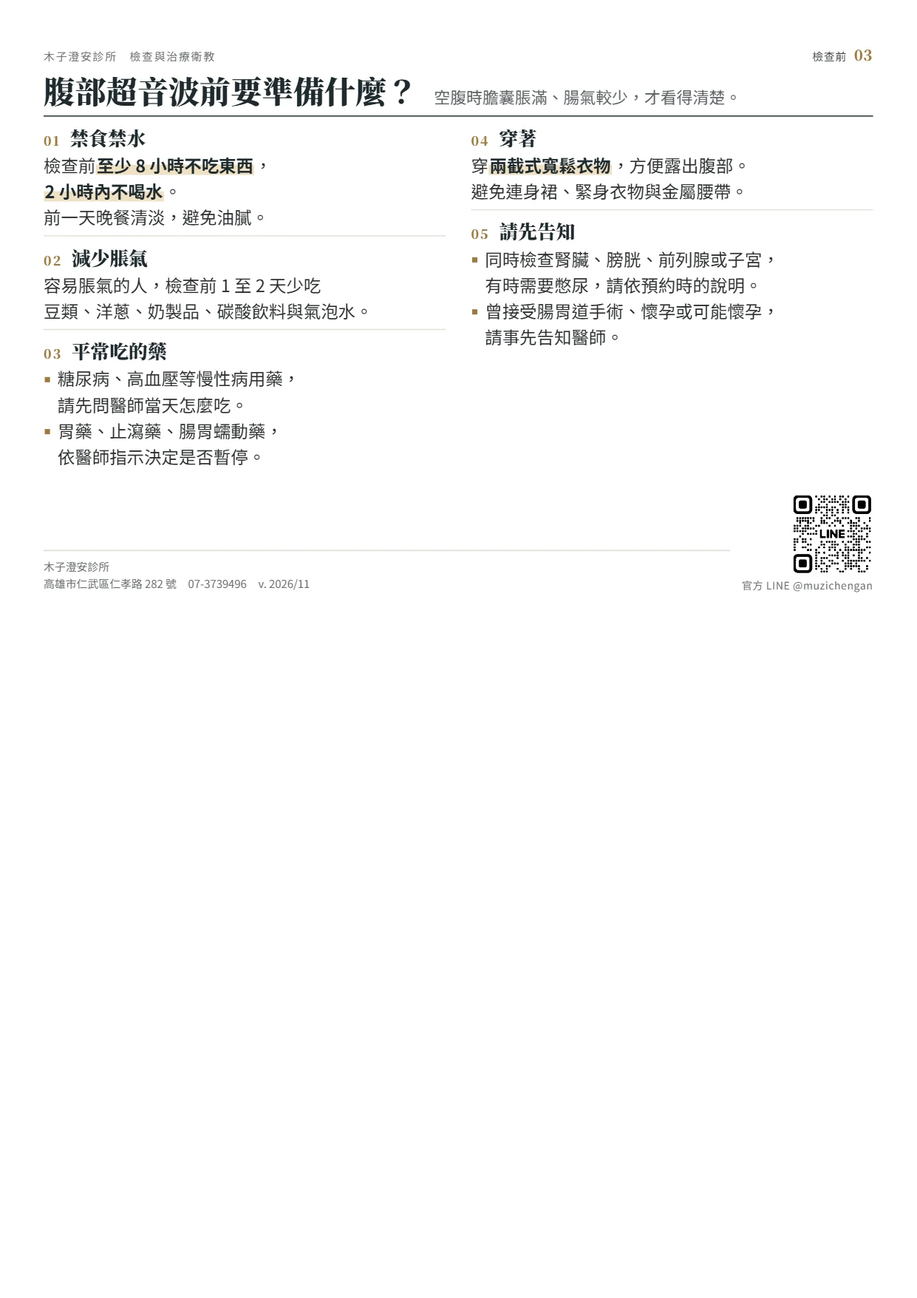
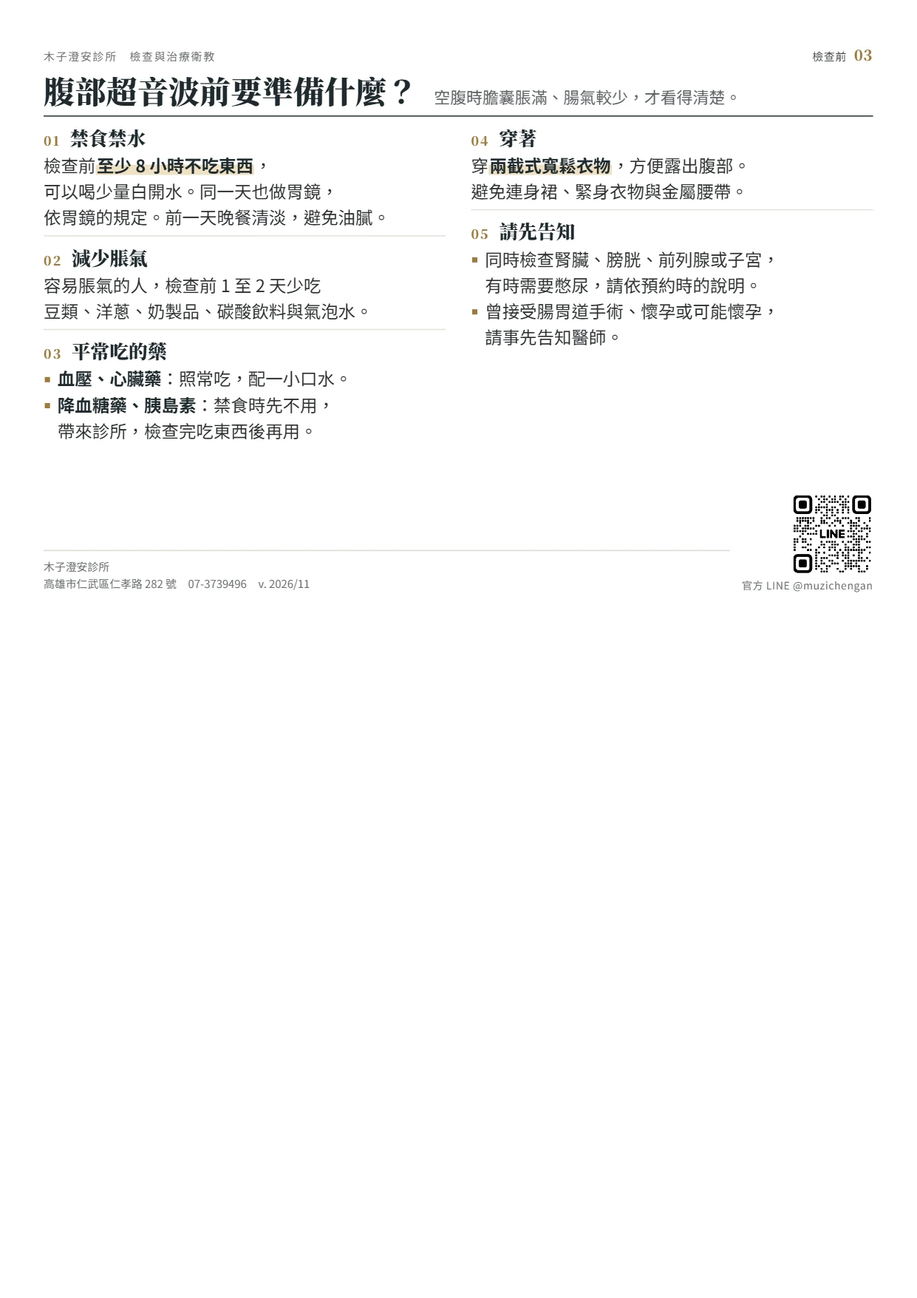
衛教單張內容查核修正，合併腸泌素用藥兩張衛教
- 瘜肉切除術後：追蹤年數改依 USMSTF 2020（1 至 2 顆小腺瘤 7 至 10 年等四級），標出處；「高度化生不良」改為「高度分化不良」
- 用藥注意事項＋針劑注射與保存 → 合併為「腸泌素針劑怎麼打」2 頁，新增提早就醫框；瑞倍適服法移到「減重藥物怎麼選」
- 胃鏡、大腸鏡檢查前：加 SGLT2 抑制劑提早停藥提醒；大腸鏡避免紅色、紫色飲料
- 腹部超音波：可喝少量白開水，慢性病用藥寫法比照胃鏡，刪除暫停胃藥一條
- 抗逆流結紮：約 1 週脫落、2 至 4 週癒合，軟質飲食延長為約兩週
- 幽門桿菌：測試前 2 週停用 PPI 類胃藥
- 回診時程：6 個月改寫「開始用藥約半年」
- 認識肥胖 01：HDL 刪除「或已服藥」，末句改為飲食運動改善、定期檢查追蹤
- 認識肥胖 04：「超過 BMI 24」改為「BMI 24 以上」
- sw.js 快取 v71，hub 改版日期 2026-11-08

Changed region(s): [[0.0612, 0.2769, 0.3674, 0.3692], [0.0306, 0.1231, 0.3981, 0.1846]]

diff --git a/edu-src/cards.html b/edu-src/cards.html
@@ -65,37 +65,65 @@ table.tb td:last-child{white-space:nowrap; font-weight:700; color:var(--ink);}
 /* 診所標誌：取自減重衛教圖卡頁尾，顏色與大小一致 */
 .logo{width:106px; height:36px; overflow:hidden; position:relative;}
 .logo img{position:absolute; width:794px; left:-612px; top:-1056px;}
+.k .sub{display:block; font-size:12.5px; color:var(--faint); line-height:1.6; margin-top:6px;}
+.lad{display:grid; grid-template-columns:62px 1fr; align-items:center; column-gap:8px; margin-bottom:8px;}
+.lad > b{font-weight:700; color:var(--ink); font-size:15px;}
+.steps{display:flex; gap:4px;}
+.steps div{flex:1; background:var(--beige); text-align:center; padding:5px 2px 4px; font-size:11.5px; color:var(--sub); line-height:1.3;}
+.steps i{display:block; font-style:normal; font-family:'Noto Serif TC',serif; font-weight:900; font-size:17px; color:var(--ink);}
+.steps div.mx{background:#E7EEF0;} .steps div.mx i{color:#2E5566;}
+/* 內容較多的一頁：段落上下間距縮小 */
+.page.tight .row{padding:8px 0 7px;}
+.page.tight .box{margin-top:12px;}
 .fit-ok{outline:3px solid #2E8B57;} .fit-bad{outline:3px solid #C0392B;}
 </style>
 </head>
 <body>
 
-<!-- ───────── 減重：用藥 02 用藥注意事項（改成「療程」系列版型，內容不變） ───────── -->
-<section class="page" data-out="edu-medication-guide">
+<!-- ───────── 減重：用藥 02 腸泌素針劑怎麼打（2026/11 由「用藥注意事項」與「針劑注射與保存」合併；瑞倍適服法移到用藥 01） ───────── -->
+<section class="page tight" data-out="edu-glp1-guide-1">
   <div class="top"><span>木子澄安診所　減重門診衛教</span><span class="no">用藥<b>02</b></span></div>
-  <h1>用藥注意事項</h1>
-  <p class="lead">腸胃不適的緩解方法、口服藥怎麼吃、針劑忘記打怎麼辦。</p>
+  <h1>腸泌素針劑怎麼打？</h1>
+  <p class="lead">適用週纖達（Wegovy）與猛健樂（Mounjaro）筆型注射劑。</p>
   <div class="rule"></div>
   <div class="row">
-    <div class="k"><small>01</small><b>腸胃不適，<br>可以這樣緩解</b></div>
-    <div class="v two">
-      <ol class="n"><li>少量多餐、吃慢一點</li><li>有飽足感就停止進食</li><li>避免油炸、辛辣的食物</li></ol>
-      <ol class="n" start="4" style="counter-reset:n 3"><li>飯後不要馬上躺下</li><li>睡前 3 小時不進食</li><li>適度運動，水分喝足</li></ol>
-    </div>
+    <div class="k"><small>01</small><b>保存</b></div>
+    <div class="v"><ul class="d">
+      <li><b class="s">還沒開始用</b>：冷藏 2 至 8°C，<span class="red">不可冷凍</span>，結凍過就不能再用。</li>
+      <li><b class="s">開始用之後</b>：30°C 以下室溫或冷藏都可以，<br>週纖達 <b class="s">6 週</b>、猛健樂 <b class="s">30 天</b>內用完。</li>
+      <li>遠離冰箱出風口；避免高溫與日曬，不要放在車內。</li>
+    </ul></div>
   </div>
   <div class="row">
-    <div class="k"><small>02</small><b>口服藥：<br>瑞倍適</b></div>
-    <div class="v">
-      <ol class="n"><li>早上起床、空腹時服用。</li><li>配不超過 120 mL 的白開水，整顆吞服。</li><li>服藥後至少等 30 分鐘，才能吃東西、喝其他飲料或吃其他藥。</li></ol>
-      <p class="red">不可壓碎、剝半或咀嚼，會影響吸收。</p>
-    </div>
+    <div class="k"><small>02</small><b>注射前</b></div>
+    <div class="v"><ul class="d">
+      <li><b class="s">排氣</b>：週纖達每支新筆第一次使用前做一次流量檢查；<br>猛健樂每次注射前都要排氣。</li>
+      <li>每次換新針頭。<span class="red">筆針不可與他人共用</span>，換了針頭也一樣。</li>
+    </ul></div>
+  </div>
+  <div class="row">
+    <div class="k"><small>03</small><b>注射步驟</b></div>
+    <div class="v"><ol class="n">
+      <li>每週固定一天施打，一天中任何時間、飯前飯後都可以。</li>
+      <li>部位：腹部（肚臍周圍 5 公分以外）、<br>大腿前側或上臂外側，<span class="hl">每次換位置</span>。</li>
+      <li>針頭完全插入皮膚，按住注射鈕。</li>
+      <li>劑量歸零後，針頭<b class="s">留在皮膚內</b>停留 <span class="hl">6 秒以上</span>，再拔出。</li>
+      <li>拔針後針尖有一滴藥液是正常的。</li>
+    </ol></div>
+  </div>
+  <div class="row">
+    <div class="k"><small>04</small><b>注射後</b></div>
+    <div class="v"><ul class="d">
+      <li>打完立即卸下針頭，丟入硬質容器，帶回診所或藥局回收。</li>
+      <li>最後一劑打完，筆內殘留少量藥液是正常的。</li>
+    </ul></div>
   </div>
   <div class="row wide">
-    <div class="k"><small>03</small><b>針劑：忘記打怎麼辦？</b></div>
+    <div class="k"><small>05</small><b>忘記打怎麼辦？</b></div>
     <div class="v two">
       <div>
         <div class="col-h">週纖達</div>
-        <ul class="d"><li>漏打 <b class="s">5 天以內</b>：盡快補打。</li><li>超過 5 天：跳過這次，照原訂日期打。</li><li>連續漏打好幾劑：先問醫師，可能要從較低劑量重新開始。</li></ul>
+        <ul class="d"><li>漏打 <b class="s">5 天以內</b>：盡快補打。</li><li>超過 5 天：跳過這次，照原訂日期打。</li><li>連續漏打 2 週以上：先問醫師。</li></ul>
       </div>
       <div>
         <div class="col-h">猛健樂</div>
@@ -103,12 +131,51 @@ table.tb td:last-child{white-space:nowrap; font-weight:700; color:var(--ink);}
         <div class="week"><div>週一<b>漏打</b></div><div class="go">週二至週五<b>盡快補打</b></div><div class="skip">週六、週日<b>跳過</b></div><div>下週一<b>照常</b></div></div>
       </div>
     </div>
+    <p class="v" style="margin-top:2px"><b class="s">更改施打日</b>：兩劑間隔至少 3 天（72 小時）。<span class="red">任何情況都不可一次打兩倍劑量。</span></p>
   </div>
-  <div class="box">
-    <div class="t">更改施打日</div>
-    <div class="c">兩劑之間間隔足夠就可以：<br>週纖達、猛健樂都要間隔至少 3 天，也就是 72 小時。<br><span class="red">任何情況都不可一次打兩倍劑量。</span></div>
+  <div class="foot"><div class="addr">木子澄安診所<br>高雄市仁武區仁孝路 282 號<span>07-3739496</span><span>v. 2026/11</span></div><div class="logo"><img src="../img/edu-clinical-assessment.webp" alt=""></div></div>
+</section>
+
+<section class="page" data-out="edu-glp1-guide-2">
+  <div class="top"><span>木子澄安診所　減重門診衛教</span><span class="no">用藥<b>02 續</b></span></div>
+  <h1>用藥期間要注意什麼？</h1>
+  <p class="lead">腸胃不適怎麼緩解、懷孕與避孕、劑量怎麼調。</p>
+  <div class="rule"></div>
+  <div class="row">
+    <div class="k"><small>06</small><b>腸胃不適，<br>可以這樣緩解</b></div>
+    <div class="v"><div class="two"><ol class="n">
+      <li>少量多餐，七分飽就停</li>
+      <li>避免油炸、油膩與辛辣的食物</li>
+      <li>吃慢一點，飯後不馬上躺下</li></ol>
+      <ol class="n" style="counter-reset:n 3"><li>睡前 3 小時不進食</li>
+      <li>水分喝足，適度運動</li>
+      <li>避免大量飲酒與極端節食</li>
+    </ol></div>
+    <p style="margin-top:4px">藥物是幫手。持續好的飲食與運動習慣，停藥後才不容易復胖。</p></div>
   </div>
-  <p class="src">資料來源：週纖達、猛健樂、瑞倍適仿單。</p>
+  <div class="row">
+    <div class="k"><small>07</small><b>懷孕與避孕</b></div>
+    <div class="v"><ul class="d">
+      <li>懷孕或哺乳期間<b class="s">不可使用</b>。</li>
+      <li>計畫懷孕：週纖達要<b class="s">停藥至少 2 個月</b>後再懷孕；<br>猛健樂也請提早與醫師討論停藥時間。</li>
+      <li>使用猛健樂又吃口服避孕藥：開始用藥及每次調升劑量後 <b class="s">4 週內</b>，<br>要加用保險套或改用非口服的避孕方式。</li>
+    </ul></div>
+  </div>
+  <div class="row">
+    <div class="k"><small>08</small><b>劑量階梯</b><span class="sub">每 4 週評估一次<br>單位 mg</span></div>
+    <div class="v">
+      <div class="lad"><b>週纖達</b>
+        <div class="steps"><div><i>0.25</i>第 1 至 4 週</div><div><i>0.5</i>5 至 8 週</div><div><i>1</i>9 至 12 週</div><div><i>1.7</i>13 至 16 週</div><div class="mx"><i>2.4</i>17 週起維持</div></div></div>
+      <div class="lad"><b>猛健樂</b>
+        <div class="steps"><div><i>2.5</i>第 1 至 4 週</div><div><i>5</i>5 至 8 週</div><div><i>7.5</i>9 至 12 週</div><div><i>10</i>13 至 16 週</div><div><i>12.5</i>17 至 20 週</div><div class="mx"><i>15</i>21 週起</div></div></div>
+      <p style="margin-top:6px"><span class="hl">從低劑量開始，不一定要升到最高劑量</span>。調整劑量請與醫師討論。</p>
+    </div>
+  </div>
+  <div class="box alert">
+    <div class="t">提早就醫</div>
+    <div class="c">持續噁心嘔吐、吃不下、尿量變少；<br>上腹痛延伸到背部，或右上腹痛；<br>併用胰島素或磺醯尿素類降血糖藥，出現冒冷汗、手抖、心悸。<br><b class="s">不必等到回診日。</b></div>
+  </div>
+  <p class="src">資料來源：週纖達、猛健樂仿單。操作或施打時間有任何疑問，歡迎隨時詢問醫護團隊。</p>
   <div class="foot"><div class="addr">木子澄安診所<br>高雄市仁武區仁孝路 282 號<span>07-3739496</span><span>v. 2026/11</span></div><div class="logo"><img src="../img/edu-clinical-assessment.webp" alt=""></div></div>
 </section>
 

diff --git a/edu-src/a5.html b/edu-src/a5.html
@@ -76,6 +76,7 @@ table.tb td:last-child{font-weight:700; color:var(--ink);}
         <div class="v"><ul class="d">
           <li><b class="s">血壓、心臟藥</b>：當天早上照常吃，<br>配一小口水。</li>
           <li><b class="s">降血糖藥、胰島素</b>：禁食時先不用，<br>帶來診所，檢查完吃東西後再用。</li>
+          <li><b class="s">SGLT2 抑制劑</b>（恩排糖、福適佳等）：<br>要提早停藥，預約時請問醫師。</li>
           <li><b class="s">抗血小板藥、抗凝血劑</b>：事先告知，<br>由醫師評估，<span class="red">不要自行停藥</span>。</li>
           <li><b class="s">腸泌素類藥物</b>（週纖達、猛健樂、瑞倍適）：<br><span class="nw">胃排空</span>會變慢，預約時請告知。</li>
         </ul></div></div>
@@ -113,7 +114,7 @@ table.tb td:last-child{font-weight:700; color:var(--ink);}
       <div class="row"><div class="k"><small>02</small><b>前一天：低渣代餐</b></div>
         <div class="v"><ul class="d">
           <li>早餐 07:00 白吐司或白饅頭，<br>午餐 12:00、晚餐 16:00 吃代餐。</li>
-          <li>可以喝白開水、運動飲料、無渣清湯。</li>
+          <li>可以喝白開水、運動飲料、無渣清湯，<br><span class="red">避免紅色、紫色飲料</span>。</li>
         </ul></div></div>
       <div class="row"><div class="k"><small>03</small><b>清腸藥分兩次喝</b></div>
         <div class="v"><ul class="d">
@@ -125,13 +126,13 @@ table.tb td:last-child{font-weight:700; color:var(--ink);}
       <div class="row"><div class="k"><small>04</small><b>平常吃的藥</b></div>
         <div class="v"><ul class="d">
           <li><b class="s">血壓、心臟藥</b>：照常吃，配一小口水。</li>
-          <li><b class="s">降血糖藥、胰島素</b>：飲食控制期間<br>容易低血糖，請先問醫師怎麼調整。</li>
+          <li><b class="s">降血糖藥、胰島素</b>：飲食控制期間<br>容易低血糖，請先問醫師怎麼調整；<br>SGLT2 抑制劑（恩排糖、福適佳等）要提早停。</li>
           <li><b class="s">抗血小板藥、抗凝血劑、腸泌素類藥物</b>：<br>預約時請告知，<span class="red">不要自行停藥</span>。</li>
         </ul></div></div>
       <div class="row"><div class="k"><small>05</small><b>檢查當天</b></div>
         <div class="v"><ul class="d">
           <li>檢查前 <span class="hl">2 小時禁水</span>。</li>
-          <li>大便是淡黃色清水、沒有渣，<br>就是清乾淨了。</li>
+          <li>大便是淡黃色清水、沒有渣就是清乾淨了。</li>
           <li>舒眠大腸鏡要有家人陪同，<br><span class="hl">當天不可開車、騎車</span>。</li>
         </ul></div></div>
     </div>
@@ -147,13 +148,13 @@ table.tb td:last-child{font-weight:700; color:var(--ink);}
   <div class="cols">
     <div class="col">
       <div class="row"><div class="k"><small>01</small><b>禁食禁水</b></div>
-        <div class="v"><p>檢查前<span class="hl">至少 8 小時不吃東西</span>，<br><span class="hl">2 小時內不喝水</span>。<br>前一天晚餐清淡，避免油膩。</p></div></div>
+        <div class="v"><p>檢查前<span class="hl">至少 8 小時不吃東西</span>，<br>可以喝少量白開水。同一天也做胃鏡，<br>依胃鏡的規定。前一天晚餐清淡，避免油膩。</p></div></div>
       <div class="row"><div class="k"><small>02</small><b>減少脹氣</b></div>
         <div class="v"><p>容易脹氣的人，檢查前 1 至 2 天少吃<br>豆類、洋蔥、奶製品、碳酸飲料與氣泡水。</p></div></div>
       <div class="row"><div class="k"><small>03</small><b>平常吃的藥</b></div>
         <div class="v"><ul class="d">
-          <li>糖尿病、高血壓等慢性病用藥，<br>請先問醫師當天怎麼吃。</li>
-          <li>胃藥、止瀉藥、腸胃蠕動藥，<br>依醫師指示決定是否暫停。</li>
+          <li><b class="s">血壓、心臟藥</b>：照常吃，配一小口水。</li>
+          <li><b class="s">降血糖藥、胰島素</b>：禁食時先不用，<br>帶來診所，檢查完吃東西後再用。</li>
         </ul></div></div>
     </div>
     <div class="col">
@@ -225,11 +226,13 @@ table.tb td:last-child{font-weight:700; color:var(--ink);}
         <div class="v"><p>約 1 至 2 週出爐，下次大腸鏡依結果決定：</p>
           <table class="tb">
             <tr><th>病理結果</th><th>下次大腸鏡</th></tr>
-            <tr><td><b class="s">低風險</b>：1 至 2 顆腺瘤，都小於 1 公分，<br>沒有絨毛狀變化或高度化生不良</td><td>3 至 5 年</td></tr>
-            <tr><td><b class="s">高風險</b>：3 顆以上，或任一顆 1 公分以上，<br>或有絨毛狀變化、高度化生不良</td><td>3 年內</td></tr>
+            <tr><td>1 至 2 顆管狀腺瘤，都小於 1 公分</td><td>7 至 10 年</td></tr>
+            <tr><td>3 至 4 顆管狀腺瘤，都小於 1 公分</td><td>3 至 5 年</td></tr>
+            <tr><td>5 至 10 顆，或任一顆 1 公分以上，<br>或有絨毛狀變化、高度分化不良</td><td>3 年</td></tr>
+            <tr><td>鋸齒狀病灶、分片切除</td><td>醫師另外說明</td></tr>
           </table></div></div>
       <div class="box alert"><div class="t">立即就醫</div><div class="c">解大量鮮血或血塊、頭暈心悸、腹痛加劇、<br><span class="nw">發燒</span>。糞便帶少量血絲一兩次，通常不必擔心。</div></div>
-      <p class="src">以清腸乾淨、完整切除為前提。資料來源：台灣消化系醫學會、國民健康署。</p>
+      <p class="src">以清腸乾淨、完整切除為前提。資料來源：USMSTF，Gastroenterology 2020。</p>
     </div>
   </div>
   <div class="foot"><div class="addr">木子澄安診所<br>高雄市仁武區仁孝路 282 號<span>07-3739496</span><span>v. 2026/11</span></div><div class="qr"><img src="../calc/qr.png" alt=""><span>官方 LINE @muzichengan</span></div></div>
@@ -272,14 +275,14 @@ table.tb td:last-child{font-weight:700; color:var(--ink);}
 <!-- ───────── 治療後 03 抗逆流結紮 ───────── -->
 <section class="page" data-out="edu-a5-arbl-after">
   <div class="top"><span>木子澄安診所　檢查與治療衛教</span><span class="no">治療後<b>03</b></span></div>
-  <div class="head"><h1>抗逆流結紮術後怎麼吃？</h1><p class="lead">結紮處黏膜 1 至 2 週內脫落、癒合。</p></div>
+  <div class="head"><h1>抗逆流結紮術後怎麼吃？</h1><p class="lead">結紮處約 1 週脫落，傷口約 2 至 4 週癒合。</p></div>
   <div class="rule"></div>
   <div class="cols">
     <div class="col">
       <div class="row"><div class="k"><small>01</small><b>飲食</b></div>
         <div class="v"><ul class="d">
           <li>治療當天：溫涼的流質。</li>
-          <li>之後約一週：軟質食物，<br>例如粥、蒸蛋、豆腐、煮軟的麵。</li>
+          <li>之後約兩週：軟質食物，<br>例如粥、蒸蛋、豆腐、煮軟的麵。</li>
           <li>避免堅硬、大塊、過燙或刺激性食物，<br><span class="hl">小口、慢慢吃</span>。</li>
         </ul></div></div>
       <div class="row"><div class="k"><small>02</small><b>用藥</b></div>
@@ -321,7 +324,7 @@ table.tb td:last-child{font-weight:700; color:var(--ink);}
       <div class="row"><div class="k"><small>04</small><b>確認除菌成功</b></div>
         <div class="v"><ul class="d">
           <li>吃完藥<span class="hl">至少 4 週後</span>，<br>回診做碳 13 尿素呼氣測試。</li>
-          <li>測試前 2 週停用制酸藥，以免假陰性。</li>
+          <li>測試前 2 週停用 PPI 類胃藥，以免假陰性。</li>
           <li>沒有成功，醫師會換另一組藥再治療。</li>
         </ul></div></div>
       <div class="box"><div class="t">除菌之後</div><div class="c">已有<span class="nw">胃黏膜萎縮</span>或<span class="nw">腸化生</span>，<br>除菌後仍要定期做胃鏡。<br>同住家人也可以一起檢查。</div></div>

diff --git a/edu-src/patch.html b/edu-src/patch.html
@@ -17,6 +17,13 @@ const INK = '#2f3437', DARK = '#1f2a2e', SUB = '#6b6f71';
 const PATCHES = {
   // 用藥 01：SELECT 研究的對象是已有心血管疾病的人
   'edu-medication-options': [
+    // 瑞倍適「特色」欄：原本只寫不必打針，2026/11 合併針劑衛教時把口服服法從用藥 02 移到這裡
+    {cover:[222, 762, 290, 163], text:[
+      [227, 797, SANS(400, 24.5), INK, '不必打針。起床空腹，'],
+      [227, 837, SANS(400, 24.5), INK, '配 120 mL 內白開水'],
+      [227, 877, SANS(400, 24.5), INK, '整顆吞服，不可壓碎；'],
+      [227, 917, SANS(400, 24.5), INK, '30 分鐘後才吃喝、服藥'],
+    ]},
     {cover:[530, 762, 285, 160], text:[
       [537, 797, SANS(400, 24.5), INK, '已有心血管疾病的人，'],
       [537, 837, SANS(400, 24.5), INK, '大型研究證實可降低'],
@@ -46,7 +53,7 @@ const PATCHES = {
       [113, 1572, SANS(400, 17.5), SUB, '資料來源：各藥品仿單；SELECT，N Engl J Med 2023；SURMOUNT-OSA，N Engl J Med 2024。'],
     ]},
   ],
-  // 療程 04：5% 評估改到「維持劑量用滿約 3 個月」，與療程 01、02 一致（週纖達第 17 週才到維持劑量）
+  // 療程 04：6 個月的評估寫「開始用藥約半年」（週纖達第 17 週才到維持劑量，半年時維持劑量還不到 3 個月）
   'edu-follow-up-schedule': [
     {cover:[380, 795, 748, 140], text:[
       [388, 828, SANS(700, 25), DARK, '抽血與階段檢視'],
@@ -55,7 +62,7 @@ const PATCHES = {
     ]},
     {cover:[380, 995, 748, 140], text:[
       [388, 1028, SANS(700, 25), DARK, '療效評估與腹部超音波'],
-      [388, 1073, SANS(400, 25), INK, '維持劑量用滿約 3 個月，確認減重是否達 5%；'],
+      [388, 1073, SANS(400, 25), INK, '開始用藥約半年，確認減重是否達 5%；'],
       [388, 1118, SANS(400, 25), INK, '超音波看脂肪肝改善多少，追蹤共病指標。'],
     ]},
   ],
@@ -79,6 +86,19 @@ const PATCHES = {
       [113, 1515, SANS(400, 17.5), SUB, '資料來源：MERIT，Lancet 2022；ASGE／ESGE 內視鏡減重治療指引，2024。'],
     ]},
   ],
+  // 認識肥胖 01：HDL 依國健署標準沒有「或已服藥」；最後一句改成定期檢查是追蹤，不是改善
+  'edu-obesity-metabolic-syndrome': [
+    {cover:[858, 1038, 140, 42], text:[]},
+    {cover:[345, 1466, 620, 46], hl:[350, 1490, 15], text:[
+      [355, 1499, SANS(700, 26), DARK, '五項指標靠飲食與運動改善，定期檢查追蹤。'],
+    ]},
+  ],
+  // 認識肥胖 04：「超過」是大於，標準是大於或等於
+  'edu-when-to-intervene': [
+    {cover:[345, 964, 620, 38], text:[
+      [351, 990, SANS(400, 20.5), SUB, '身高單位：公分。BMI 24 以上為過重，27 以上為肥胖。'],
+    ]},
+  ],
 };
 const loadImg = src=> new Promise((ok, no)=>{ const i = new Image(); i.onload = ()=> ok(i); i.onerror = no; i.src = src; });
 async function build(){
@@ -97,6 +117,8 @@ async function build(){
       if(Array.isArray(p.bg)){ const d = g.getImageData(p.bg[0], p.bg[1], 1, 1).data; g.fillStyle = `rgb(${d[0]},${d[1]},${d[2]})`; }
       else g.fillStyle = p.bg || '#fff';
       g.fillRect(...p.cover);
+      // hl：螢光筆底色 [起點 x、上緣 y、高度]，寬度依第一行文字長度
+      if(p.hl && p.text.length){ const [x, , font, , s] = p.text[0]; g.font = font; g.fillStyle = '#F1E2C3'; g.fillRect(p.hl[0], p.hl[1], g.measureText(s).width + (x - p.hl[0]) + 12, p.hl[2]); }
       for(const [x, y, font, color, s] of p.text){ g.font = font; g.fillStyle = color; g.fillText(s, x, y); }
     }
     // 頁尾版本日期改成這次修改的月份

diff --git a/revision.js b/revision.js
@@ -2,7 +2,7 @@
    工作台（index.html）與臨床計算病人版（calc/index.html）都先載入這份，各工具再從 REVISION 讀自己的日期。
    報價單上的「價目版本」不在這裡：價格有變才改，見 quote/app.js 的 Q_PRICE_VERSION。 */
 const REVISION = {
-  hub:     '2026-11-06',
+  hub:     '2026-11-08',
   quote:   '2026-11-08',
   calc:    '2026-11-06',
   weight:  '2026-11-06',
@@ -12,10 +12,8 @@ const REVISION = {
 /* 工作台左下角只顯示最新的一個日期（上面五個取最晚的），點一下會跳出這次改了什麼。
    每次改版就把這裡整份換成「當次」的簡短說明，一行一件事；不要把前幾次的說明留著累加。 */
 const REVISION_NOTE = [
-  "報價首頁大卡與基礎套組卡拿掉單側粗色條，改為四周細框＋淡色漸層",
-  "健檢方案頁重新排版：基礎套組橫幅、加選模組 3×2 大卡，整頁撐滿不必捲動",
-  "報價首頁標題改為「項目規劃」，健檢方案卡片改為綠色系",
-  "檢查與點滴：超音波、其他檢查段落最後加入「新增自訂項目」",
-  "點滴說明只列成分，不寫支數",
-  "檢驗單項：補上肝炎病毒檢查的中文名，統一 Hp、一般檢查與 EB-VCA 寫法"
+  "衛教：瘜肉切除後追蹤年數依 USMSTF 2020 更新，並標出處",
+  "衛教：「用藥注意事項」與「針劑注射與保存」合併為「腸泌素針劑怎麼打」2 頁",
+  "衛教：胃鏡、大腸鏡加 SGLT2 抑制劑提醒；腹部超音波可喝少量白開水",
+  "衛教：抗逆流結紮癒合時間、幽門桿菌測試前停 PPI、代謝症候群 HDL 判定等文字修正"
 ];

diff --git a/edu/edu.js b/edu/edu.js
@@ -55,8 +55,8 @@ const EDU_LIST = [
   ['weight', '認識肥胖', '為什麼會胖？',     ICON.dna,      ['img/edu-obesity-causes.webp']],
   ['weight', '認識肥胖', '何時該開始治療', ICON.light,     ['img/edu-when-to-intervene.webp']],
   ['weight', '用藥',     '減重藥物怎麼選',   ICON.pill,     ['img/edu-medication-options.webp']],
-  ['weight', '用藥',     '用藥注意事項',     ICON.book,     ['img/edu-medication-guide.webp']],
-  ['weight', '用藥',     '針劑注射與保存',   ICON.pen,      [{src:'img/edu-glp1-injection-storage.webp', split:2}]],
+  // 2026/11 由「用藥注意事項」與「針劑注射與保存」合併；瑞倍適服法移到「減重藥物怎麼選」
+  ['weight', '用藥',     '腸泌素針劑怎麼打', ICON.pen,      ['img/edu-glp1-guide-1.webp', 'img/edu-glp1-guide-2.webp']],
   // 地中海飲食衛教原本放在列印表單，合併後歸到減重衛教
   ['weight', '飲食',     '地中海飲食衛教',   ICON.leaf,     ['img/diet-mediterranean-1.webp', 'img/diet-mediterranean-2.webp']],
   ['exam',   '檢查前',   '胃鏡檢查前須知', ICON.stomach,   ['img/edu-a5-gastroscopy-prep.webp'], 'A5'],

diff --git a/sw.js b/sw.js
@@ -9,7 +9,7 @@
    工作台開啟後會把所有衛教與表單圖片預先存下，斷網時也能顯示與列印。
    網路很慢（伺服器 3 秒內沒回應，圖片 6 秒）時先用快取開啟，背景照樣把新版存下，下次開啟就是新版；
    以前會一直等到連線逾時，網路卡住時整個工作台白畫面。 */
-const CACHE = 'tools-v70';
+const CACHE = 'tools-v71';
 const CORE = [
   './', 'index.html',
   'mount.js', 'revision.js',

diff --git a/edu-src/README.md b/edu-src/README.md
@@ -6,20 +6,20 @@
 
 | 檔案 | 用途 |
 |---|---|
-| `cards.html` | 減重「用藥 02 用藥注意事項」的完整版面，版型比照減重「療程」系列。檢查與治療類的 A4 舊版（胃鏡檢查前、瘜肉切除、冷凝刀、抗逆流結紮、幽門桿菌）已由 `a5.html` 取代並刪除 |
+| `cards.html` | 減重「用藥 02 腸泌素針劑怎麼打」2 頁的完整版面（2026/11 由「用藥注意事項」與「針劑注射與保存」合併，瑞倍適服法移到用藥 01），版型比照減重「療程」系列。檢查與治療類的 A4 舊版（胃鏡檢查前、瘜肉切除、冷凝刀、抗逆流結紮、幽門桿菌）已由 `a5.html` 取代並刪除 |
 | `a5.html` | A5 衛教單（檢查前 01 至 03、檢查後 01、治療後 01 至 03、用藥 01）。版面是 A4 上半部 210 × 148.5 mm，輸出整張 A4 直式 1241 × 1755 WebP（內容在上半頁、下半頁留白），列印時就是一般 A4 直式，紙匣放 A5 紙、長邊先進紙即可。右下角只放官方 LINE QR code（`calc/qr.png`，19 mm，下方標示「官方 LINE @muzichengan」），疊在頁尾右側往上突出；`fitReport()` 右欄量到 QR code 上緣。另有 `breakReport()` 列出自動換行的位置，用來檢查名詞有沒有被切斷 |
-| `patch.html` | 減重「療程 03 內視鏡減重治療」「療程 04 回診時程」「用藥 01 減重藥物怎麼選」沒有版面原始檔，這裡在原圖上蓋白後重寫改過的字 |
-| `orig/` | 上面 3 張的原圖（修改前），`patch.html` 一律從這裡開始改，重跑不會疊加 |
+| `patch.html` | 減重「療程 03 內視鏡減重治療」「療程 04 回診時程」「用藥 01 減重藥物怎麼選」「認識肥胖 01、04」沒有版面原始檔，這裡在原圖上蓋白後重寫改過的字 |
+| `orig/` | 上面 5 張的原圖（修改前），`patch.html` 一律從這裡開始改，重跑不會疊加 |
 
 「保可淨清腸說明」（大腸鏡清腸）是現行紙本 PDF 的備份（`img/edu-colonoscopy-bowel-prep-1、2.webp`），沒有原始檔，不修改。
 
-減重其他圖卡（認識肥胖 01 至 04、療程 01、02、用藥 03）沒有原始檔。傷口照護、頭部外傷衛教由另一位醫師負責，不在這裡修改。
+減重其他圖卡（認識肥胖 02、03，療程 01、02）沒有原始檔。`weight/edu-src/pages.html` 是更早的舊版面，和現行圖片已經不一致，不要用它重新輸出。傷口照護、頭部外傷衛教由另一位醫師負責，不在這裡修改。
 
 ## 輸出步驟
 
 1. 啟動能接收存檔的本機伺服器（`consent-src/serve.ps1` 只服務 `consent-src/out/`；在 tools 資料夾用任一支援 `POST /__save?name=` 的伺服器，把檔案存到 `edu-src/out/`）。
 2. 打開 `cards.html`，主控台執行 `fitReport()`，每頁數字都要大於 0（等於 0 代表內容壓到頁尾）。
-3. 執行 `await renderAll()`，或只輸出其中幾張：`await renderAll(['edu-medication-guide'])`。輸出 1241 × 1755 的 WebP。
+3. 執行 `await renderAll()`，或只輸出其中幾張：`await renderAll(['edu-glp1-guide-1'])`。輸出 1241 × 1755 的 WebP。
 4. `patch.html`：打開後等 3 秒，主控台執行 `await saveAll()`。
 5. 把 `out/` 的圖片複製到工作台的 `img/`，`sw.js` 的快取版號加一，新增或改名時改 `edu/edu.js` 的 `EDU_LIST`，並更新 `revision.js`。
 
